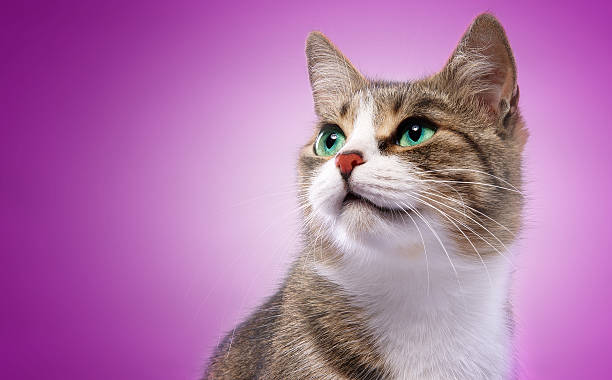
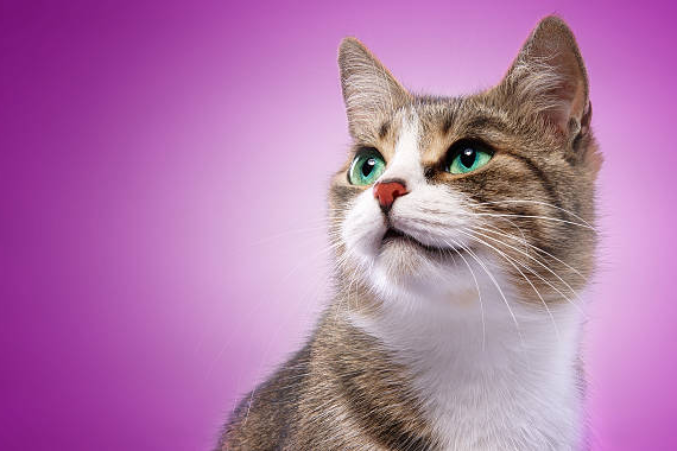
1

Changed region(s): [[0.4967, 0.0289, 0.9003, 0.7237], [0.3105, 0.7237, 0.7141, 1.0], [0.7451, 0.7526, 0.8693, 1.0]]

diff --git a/styles/mona.css b/styles/mona.css
@@ -22,11 +22,15 @@
 
 .carousel {
   width: 50%;
+  max-width: 600px;
+  margin: 30px auto;
 }
 
 .img-fluid {
-  width: 677px;
-  height: 451px;
+  width: 100%;
+  height: auto;
+  object-fit: cover;
+  border-radius: 6px;
 }
 
 .bio {
